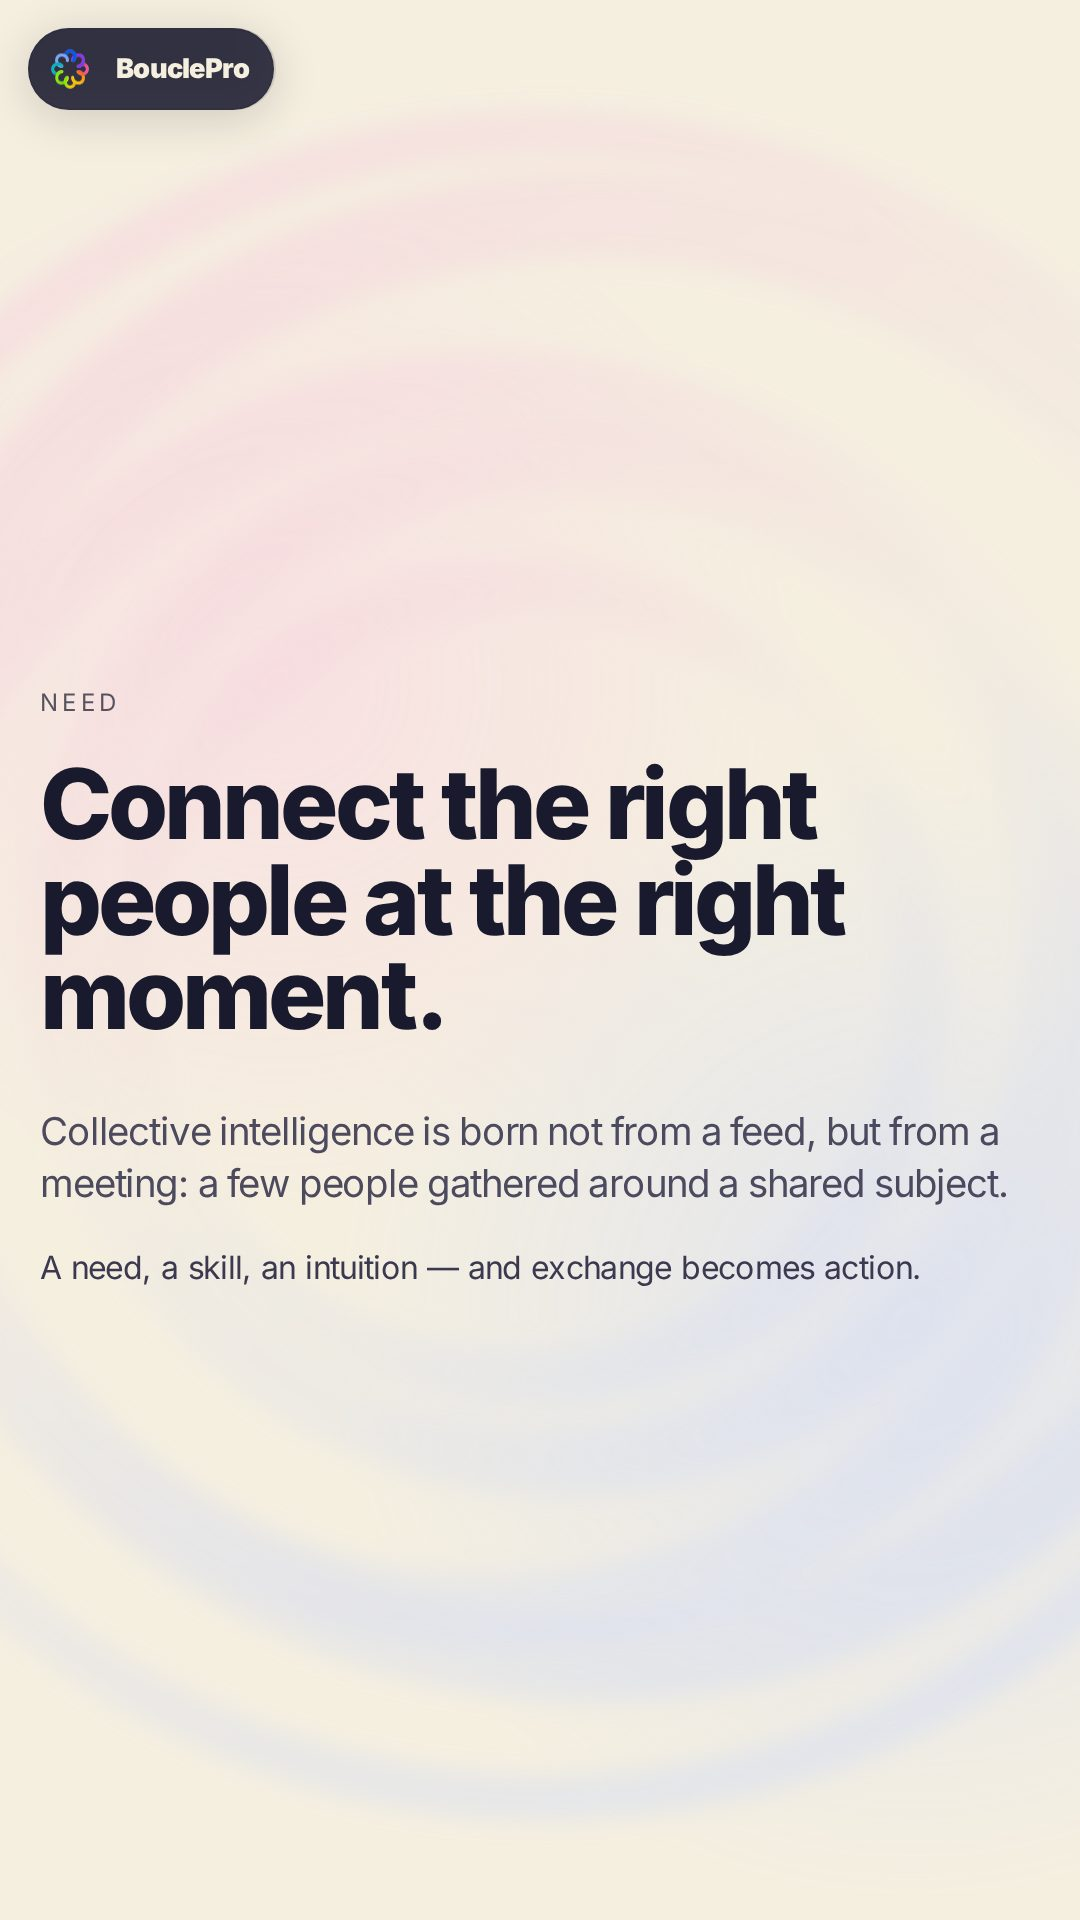
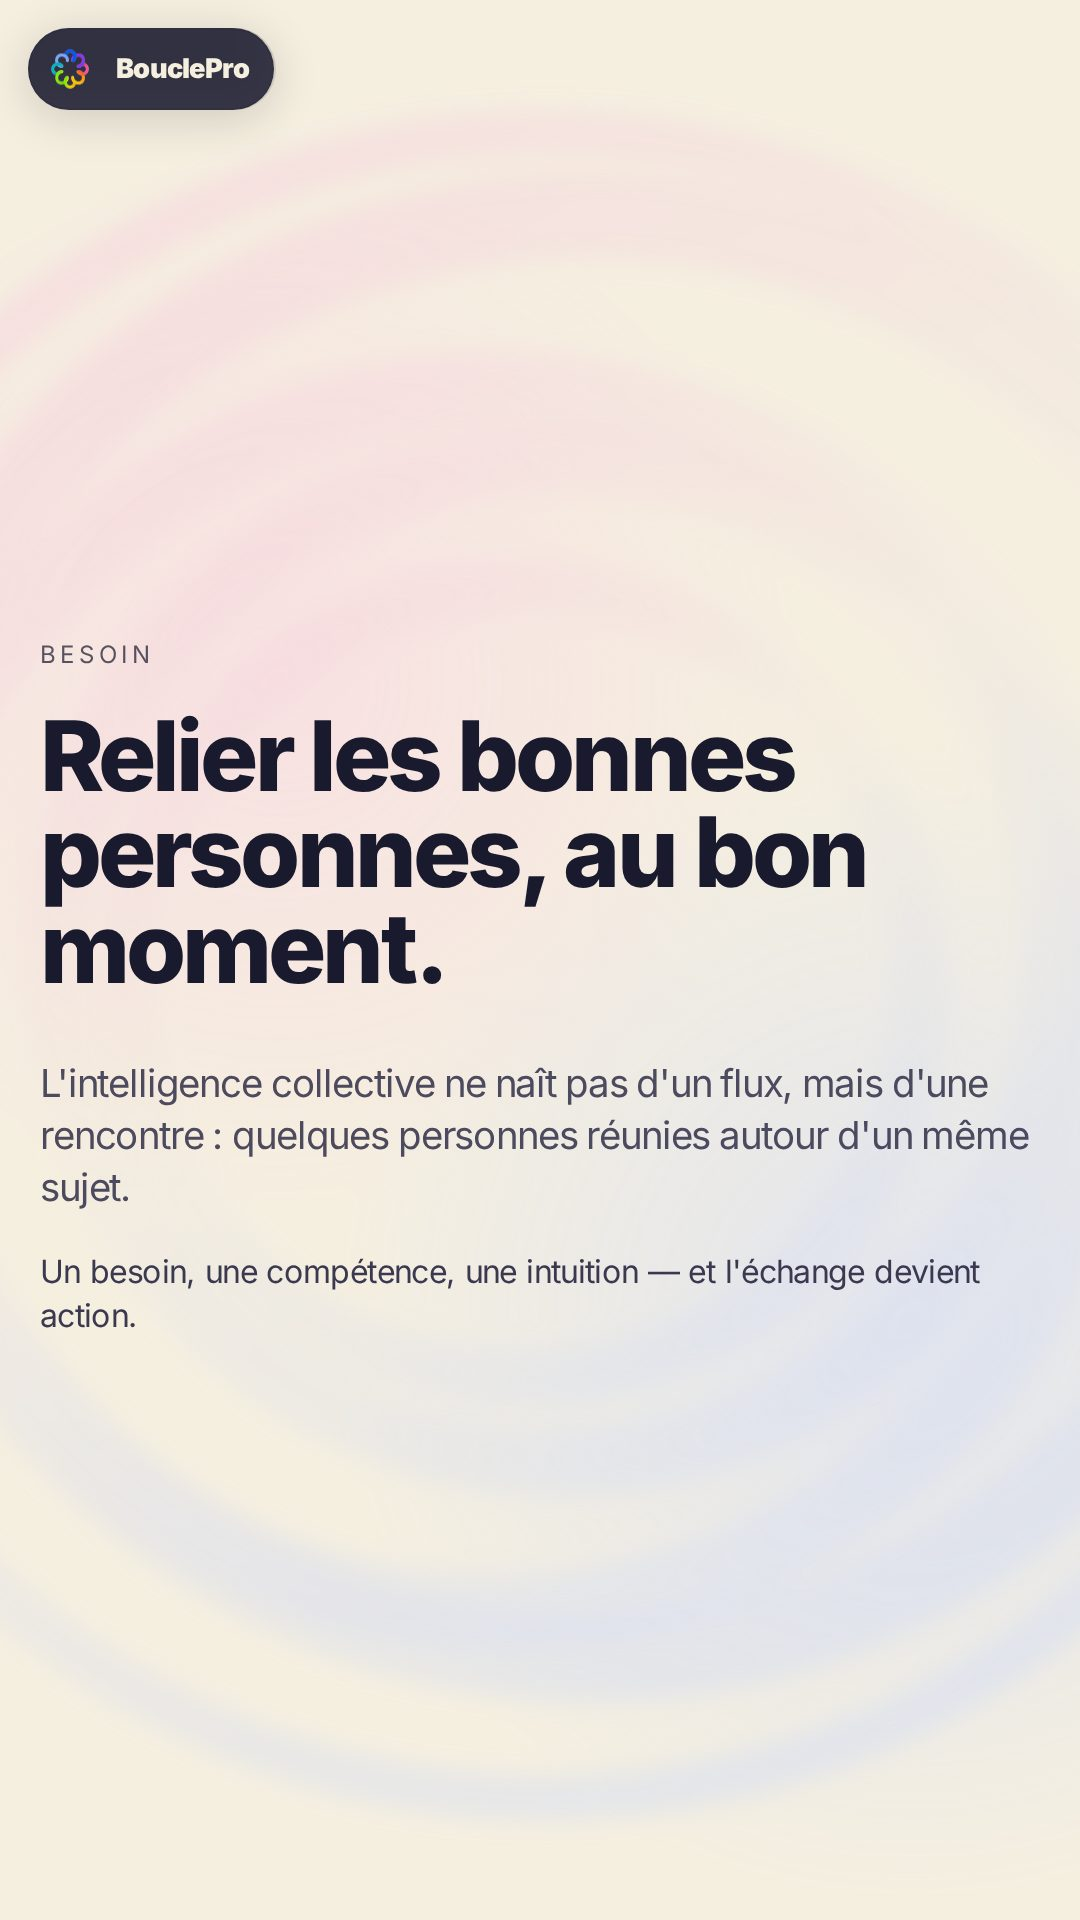
fix(pwa): TASK-1745 le generateur de captures suit la langue DU MANIFESTE
Verification du point 4 du CDC. Les deux copies d'ecran etaient fausses :
phone-accueil montrait l'interface d'avant les correctifs du 03/11 (« A
propos » en en-tete, bouton rose Connexion), et phone-a-propos etait
entierement en ANGLAIS face a un manifeste qui declare lang: fr.

La cause du second etait dans le GENERATEUR, qui ne forcait aucune
locale : Playwright negociait en en-US. Regenerer sans le corriger
aurait reproduit le defaut a la prochaine evolution d'ecran.

- le generateur lit le champ `lang` du manifeste et s'en sert pour la
  locale et Accept-Language : les deux ne peuvent plus diverger
- garde sur l'attribut `lang` de `<html>` AVANT la capture, pour ne plus
  ecrire une image dans la mauvaise langue (sabotage prouve : locale
  forcee a en-US -> rouge)
- les deux copies regenerees par le chemin officiel, en francais, sans
  bandeau d'installation, 1080x1920

Points 9 et 10 : aucun code. Le nom de paquet org.chromium.webapk.* est
genere et signe par Chrome, aucun champ du manifeste ne le gouverne. Le
libelle « A propos » de l'accueil mobile est resolu par son retrait de
l'en-tete demande le 03/11. Les deux sont documentes au TASK file.

Claude-Session: https://claude.ai/code/session_01FFHgstSYFMboFAdCHFhv8D

Changed region(s): [[0.0306, 0.3438, 0.9472, 0.625], [0.0306, 0.6562, 0.9167, 0.6875]]

diff --git a/tests/e2e/pwa-screenshots.spec.js b/tests/e2e/pwa-screenshots.spec.js
@@ -50,12 +50,32 @@ const PAGES = [
     { chemin: '/about', fichier: 'phone-a-propos.jpg', label: 'A propos de BouclePro' },
 ];
 
+// La langue du manifest. Lue ICI plutot qu'ecrite en dur : c'est elle qui
+// doit gouverner la capture, et les deux ne peuvent plus diverger.
+const LANGUE = JSON.parse(fs.readFileSync(path.resolve('public/site.webmanifest'), 'utf8')).lang;
+
 test.describe('TASK-1737 captures du manifest', () => {
     test.use({
         viewport: { width: LARGEUR, height: HAUTEUR },
         deviceScaleFactor: ECHELLE,
         isMobile: true,
         hasTouch: true,
+
+        // TASK-1745 (verification du point 4, 03/11) — la LOCALE, et c'est un
+        // defaut constate, pas une precaution.
+        //
+        // Sans elle, Playwright negocie en `en-US` : `phone-a-propos.jpg`
+        // etait entierement en ANGLAIS (« Connect the right people at the
+        // right moment ») alors que le manifest declare `lang: fr` et que son
+        // propre `label` est en francais. Android aurait montre une capture
+        // anglaise dans la boite d'installation d'une application annoncee
+        // francaise.
+        //
+        // Le defaut etait invisible : rien ne reliait la langue du manifest a
+        // celle du navigateur qui capture. La garde `<html lang>` ci-dessous
+        // ferme le trou.
+        locale: LANGUE,
+        extraHTTPHeaders: { 'Accept-Language': `${LANGUE},${LANGUE.split('-')[0]};q=0.9` },
     });
 
     for (const { chemin, fichier } of PAGES) {
@@ -77,6 +97,14 @@ test.describe('TASK-1737 captures du manifest', () => {
             // Garde : une capture d'une page en erreur serait pire que pas de
             // capture du tout — le manifest montrerait une panne.
             await expect(page.locator('body')).toBeVisible();
+
+            // Garde de LANGUE : la page servie doit etre dans la langue que le
+            // manifest annonce. C'est ce qui manquait le 03/11 — une capture
+            // anglaise dans un manifest francais, et rien pour le dire.
+            await expect(
+                page.locator('html'),
+                `la capture doit etre servie en « ${LANGUE} », la langue declaree au manifest`,
+            ).toHaveAttribute('lang', new RegExp(`^${LANGUE.split('-')[0]}`, 'i'));
 
             const destination = path.join(DOSSIER, fichier);
             await page.screenshot({ path: destination, fullPage: false, type: 'jpeg', quality: 82 });
